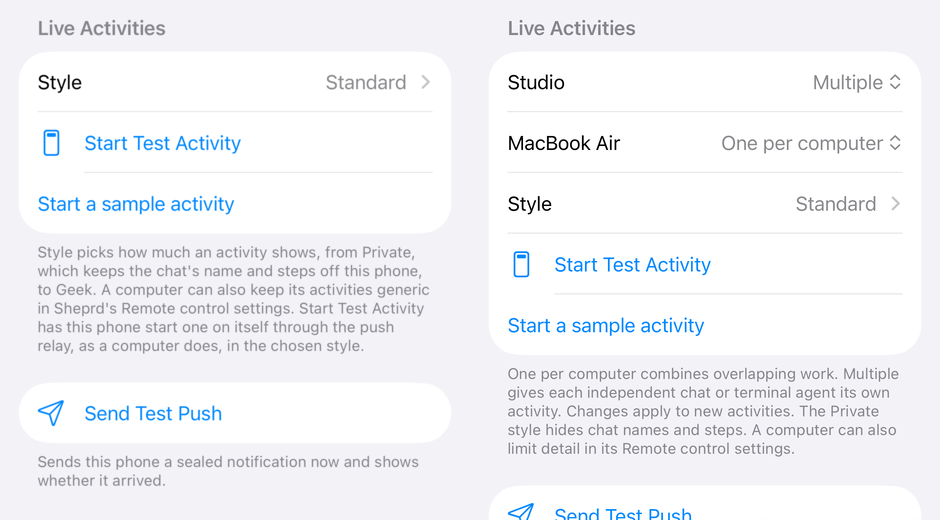
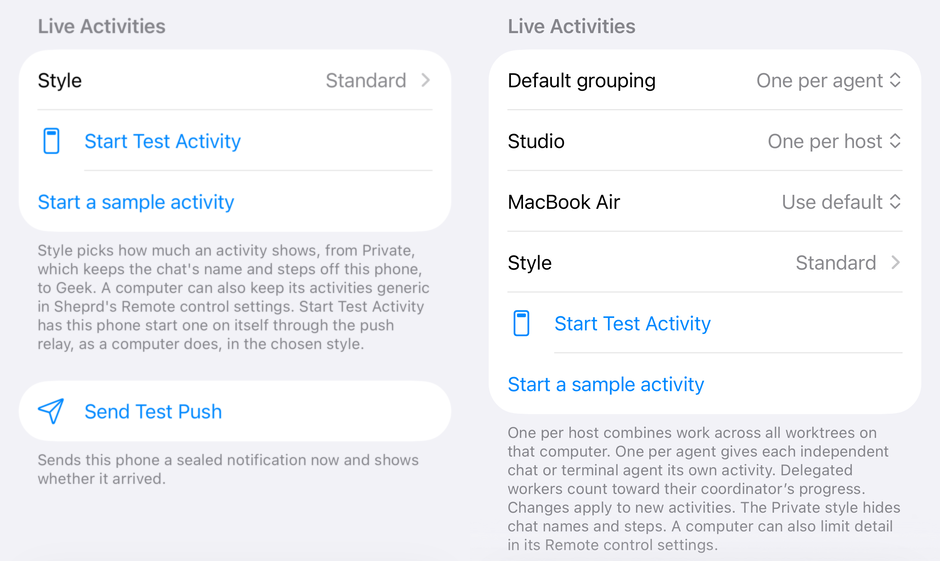
feat(ios): choose a default Live Activity per host or agent

diff --git a/ios/SheprdRemote/Views/NotificationSettingsView.swift b/ios/SheprdRemote/Views/NotificationSettingsView.swift
@@ -9,6 +9,7 @@ struct NotificationSettingsView: View {
     @Environment(AppModel.self) private var model
     @AppStorage(LiveActivityStyleSetting.key, store: LiveActivityStyleSetting.store)
     private var style = LiveActivityStyle.standardChoice.rawValue
+    @AppStorage(ActivityGrouping.defaultKey) private var defaultMultiple = false
     @State private var showingStyle = false
 
     var body: some View {
@@ -27,6 +28,13 @@ struct NotificationSettingsView: View {
             Section {
                 if !ActivityAuthorizationInfo().areActivitiesEnabled {
                     Label("Live Activities are off for Sheprd. Turn them on in Settings.", systemImage: "exclamationmark.triangle")
+                }
+                Picker("Default grouping", selection: $defaultMultiple) {
+                    Text("One per host").tag(false)
+                    Text("One per agent").tag(true)
+                }
+                .onChange(of: defaultMultiple) {
+                    Task { await model.tokens.sync() }
                 }
                 ForEach(model.shownComputers) { computer in
                     ActivityGroupingPicker(computer: computer, label: model.displayName(computer))
@@ -47,7 +55,7 @@ struct NotificationSettingsView: View {
             } header: {
                 Text("Live Activities")
             } footer: {
-                Text("One per computer combines overlapping work. Multiple gives each independent chat or terminal agent its own activity. Changes apply to new activities. The Private style hides chat names and steps. A computer can also limit detail in its Remote control settings.")
+                Text("One per host combines work across all worktrees on that computer. One per agent gives each independent chat or terminal agent its own activity. Delegated workers count toward their coordinator’s progress. Changes apply to new activities. The Private style hides chat names and steps. A computer can also limit detail in its Remote control settings.")
             }
             Section {
                 TestPushRow().agentHighlight(.testPush)
@@ -67,20 +75,21 @@ struct NotificationSettingsView: View {
 /// Both settings pages edit the same preference for this computer's identity.
 struct ActivityGroupingPicker: View {
     @Environment(AppModel.self) private var model
-    @AppStorage private var multiple: Bool
+    @AppStorage private var multiple: Bool?
     let computer: Computer
     let label: String
 
     init(computer: Computer, label: String) {
         self.computer = computer
         self.label = label
-        _multiple = AppStorage(wrappedValue: false, ActivityGrouping.key(for: computer.fingerprint))
+        _multiple = AppStorage(ActivityGrouping.key(for: computer.fingerprint))
     }
 
     var body: some View {
         Picker(label, selection: $multiple) {
-            Text("One per computer").tag(false)
-            Text("Multiple").tag(true)
+            Text("Use default").tag(nil as Bool?)
+            Text("One per host").tag(false as Bool?)
+            Text("One per agent").tag(true as Bool?)
         }
         .onChange(of: multiple) {
             Task { await model.tokens.sync(only: computer.fingerprint) }

diff --git a/ios/SheprdRemoteUITests/ActivityGroupingTests.swift b/ios/SheprdRemoteUITests/ActivityGroupingTests.swift
@@ -3,33 +3,39 @@ import XCTest
 
 final class ActivityGroupingTests: XCTestCase {
     @MainActor
-    func testEachComputerKeepsItsOwnChoice() throws {
+    func testHostsCanFollowOrOverrideTheDefaultGrouping() throws {
         try XCTSkipUnless(UIDevice.current.userInterfaceIdiom == .phone, "Exercises the settings flow on iPhone.")
         continueAfterFailure = false
         let app = XCUIApplication()
         app.launchArguments = ["-demo", "YES", "-hideDemoBar", "YES", "-tab", "settings",
                                "-openNotifications", "YES", "-provisionalAlerts", "YES", "-AppleLanguages", "(en)"]
         app.launch()
-        let studio = app.buttons.matching(NSPredicate(format: "label BEGINSWITH %@", "Studio, ")).firstMatch
-        let laptop = app.buttons.matching(NSPredicate(format: "label BEGINSWITH %@", "MacBook Air, ")).firstMatch
-        XCTAssertTrue(studio.waitForExistence(timeout: 10))
-        if !studio.label.hasSuffix("One per computer") {
-            studio.tap()
-            app.buttons["One per computer"].tap()
+        func row(_ label: String) -> XCUIElement {
+            app.buttons.matching(NSPredicate(format: "label BEGINSWITH %@", label + ", ")).firstMatch
         }
-        XCTAssertTrue(laptop.label.hasSuffix("One per computer"))
-        studio.tap()
-        app.buttons["Multiple"].tap()
+        func choose(_ option: String, on row: XCUIElement) {
+            row.tap()
+            app.buttons[option].tap()
+        }
+        let grouping = row("Default grouping")
+        let studio = row("Studio")
+        let laptop = row("MacBook Air")
+        XCTAssertTrue(grouping.waitForExistence(timeout: 10))
+        choose("One per agent", on: grouping)
+        choose("One per host", on: studio)
+        choose("Use default", on: laptop)
         app.terminate()
         app.launch()
-        XCTAssertTrue(studio.waitForExistence(timeout: 10))
-        XCTAssertTrue(studio.label.hasSuffix("Multiple"))
-        XCTAssertTrue(laptop.label.hasSuffix("One per computer"))
+        XCTAssertTrue(grouping.waitForExistence(timeout: 10))
+        XCTAssertTrue(grouping.label.hasSuffix("One per agent"))
+        XCTAssertTrue(studio.label.hasSuffix("One per host"))
+        XCTAssertTrue(laptop.label.hasSuffix("Use default"))
         let shot = XCTAttachment(screenshot: app.screenshot())
-        shot.name = "Activity grouping per computer"
+        shot.name = "Per-agent default with a per-host override"
         shot.lifetime = .keepAlways
         add(shot)
-        studio.tap()
-        app.buttons["One per computer"].tap()
+        choose("Use default", on: studio)
+        choose("One per host", on: grouping)
+        XCTAssertTrue(studio.label.hasSuffix("Use default"))
     }
 }

diff --git a/ios/SheprdRemoteCore/Sources/SheprdRemoteCore/ActivityGrouping.swift b/ios/SheprdRemoteCore/Sources/SheprdRemoteCore/ActivityGrouping.swift
@@ -1,8 +1,10 @@
 import Foundation
 
-/// The phone chooses independently for each paired computer. Reading a
-/// missing preference gives new and existing pairings one shared activity.
+/// The phone defaults to grouping by host. An explicit choice for a
+/// particular host takes precedence over the phone-wide default.
 public enum ActivityGrouping {
+    public static let defaultKey = "multipleLiveActivities.default"
+
     public static func key(for computer: Fingerprint) -> String {
         "multipleLiveActivities." + computer.hex
     }
@@ -15,6 +17,7 @@ public enum ActivityGrouping {
     }
 
     public static func single(for computer: Fingerprint, in defaults: UserDefaults = .standard) -> Bool {
-        !defaults.bool(forKey: key(for: computer))
+        let override = defaults.object(forKey: key(for: computer)) as? Bool
+        return !(override ?? defaults.bool(forKey: defaultKey))
     }
 }

diff --git a/ios/SheprdRemoteCore/Tests/SheprdRemoteCoreTests/ActivityTests.swift b/ios/SheprdRemoteCore/Tests/SheprdRemoteCoreTests/ActivityTests.swift
@@ -62,6 +62,12 @@ final class ActivityTests: XCTestCase {
         defaults.set(true, forKey: ActivityGrouping.key(for: first))
         XCTAssertFalse(ActivityGrouping.single(for: first, in: try XCTUnwrap(UserDefaults(suiteName: suite))))
         XCTAssertTrue(ActivityGrouping.single(for: second, in: defaults))
+        defaults.set(true, forKey: ActivityGrouping.defaultKey)
+        XCTAssertFalse(ActivityGrouping.single(for: second, in: defaults))
+        defaults.set(false, forKey: ActivityGrouping.key(for: first))
+        XCTAssertTrue(ActivityGrouping.single(for: first, in: defaults))
+        defaults.removeObject(forKey: ActivityGrouping.key(for: first))
+        XCTAssertFalse(ActivityGrouping.single(for: first, in: defaults))
     }
 
     func testOnlySharedStartsFromBeforeAnExplicitResetAreRetired() {

diff --git a/crates/sheprd-remote-control/src/server/live/tests/host_cards.rs b/crates/sheprd-remote-control/src/server/live/tests/host_cards.rs
@@ -93,6 +93,35 @@ fn two_phones_can_receive_one_or_multiple_cards_for_the_same_overlapping_turns()
 }
 
 #[test]
+fn host_grouping_spans_worktrees_and_agent_grouping_uses_the_pane() {
+    let reg = Registration {
+        single_activity: true,
+        ..Default::default()
+    };
+    let mut host = host::Cards::default();
+    let mut agents = host::Cards::default();
+    let first = start("first-agent");
+    let card = host.offer(&first, &reg, || None, 0).unwrap();
+    for (pane, workspace, now) in [
+        ("second-agent", "repo", 15_000),
+        ("third-agent", "other worktree", 30_000),
+    ] {
+        let mut next = start(pane);
+        if let Event::Start { attributes, .. } = &mut next.event {
+            workspace.clone_into(&mut attributes.workspace);
+        }
+        let combined = host.offer(&next, &reg, || None, now).unwrap();
+        assert_eq!(combined.pane, card.pane);
+        assert!(matches!(combined.event, Event::Update { .. }));
+        assert_eq!(combined.state.detail.focus.unwrap().workspace, workspace);
+        assert_eq!(
+            agents.offer(&next, &Registration::default(), || None, now),
+            Some(next)
+        );
+    }
+}
+
+#[test]
 fn a_delayed_token_for_an_ended_host_card_cannot_swallow_the_next_start() {
     let mut cards = host::Cards::default();
     let mut reg = Registration {

diff --git a/ios/README.md b/ios/README.md
@@ -372,13 +372,14 @@ longer have, which shows as not reported).
 
 ## Live Activity styles
 
-Under Settings > Notifications > Live Activities, each paired computer defaults
-to **One per computer**. Its overlapping chats and terminal agents share a card
-that shows progress and opens the pane it currently features. A waiting question
-takes priority. Choose **Multiple** for separate cards per independent chat or
-terminal agent. Delegated workers still contribute to their coordinator's count.
-The choice applies to new activities on this phone and syncs when an offline
-computer reconnects. Older computers continue sending individual cards.
+In Settings > Notifications > Live Activities, **Default grouping** applies to
+current and future hosts. **One per host** is the default and combines all
+worktrees on each computer. **One per agent** gives each independent chat or
+terminal agent its own activity. Delegated workers contribute to their
+coordinator’s progress. To override the default for a host, select its name
+and choose a grouping. Choose **Use default** to make it follow the default
+again. Choices apply to new activities and sync when an offline host reconnects.
+Older computers continue sending individual cards.
 
 Settings > Notifications > Live Activities > Style picks how an activity
 looks on this phone (`LiveActivityStyle`, kept in the App Group so the widget

diff --git a/docs/rich-chat.md b/docs/rich-chat.md
@@ -782,8 +782,10 @@ start that fails deletes it too.
 
 On iOS, a chat and its delegated workers share a progress count. By default
 all concurrent work on a computer shares one Live Activity. In Settings >
-Notifications > Live Activities, choose Multiple for a computer to show
-each independent chat or terminal agent on its own card.
+Notifications > Live Activities, choose **One per host** to combine work
+across that host’s worktrees, or **One per agent** to show each independent
+chat or terminal agent on its own card. You can set a phone-wide default
+and override it for individual hosts.
 It counts native subagents and local chats started with a brief, including
 chats in another Herdr space and the native subagents they start. A chat
 counts as soon as its launch is registered. Its coordinator can finish
